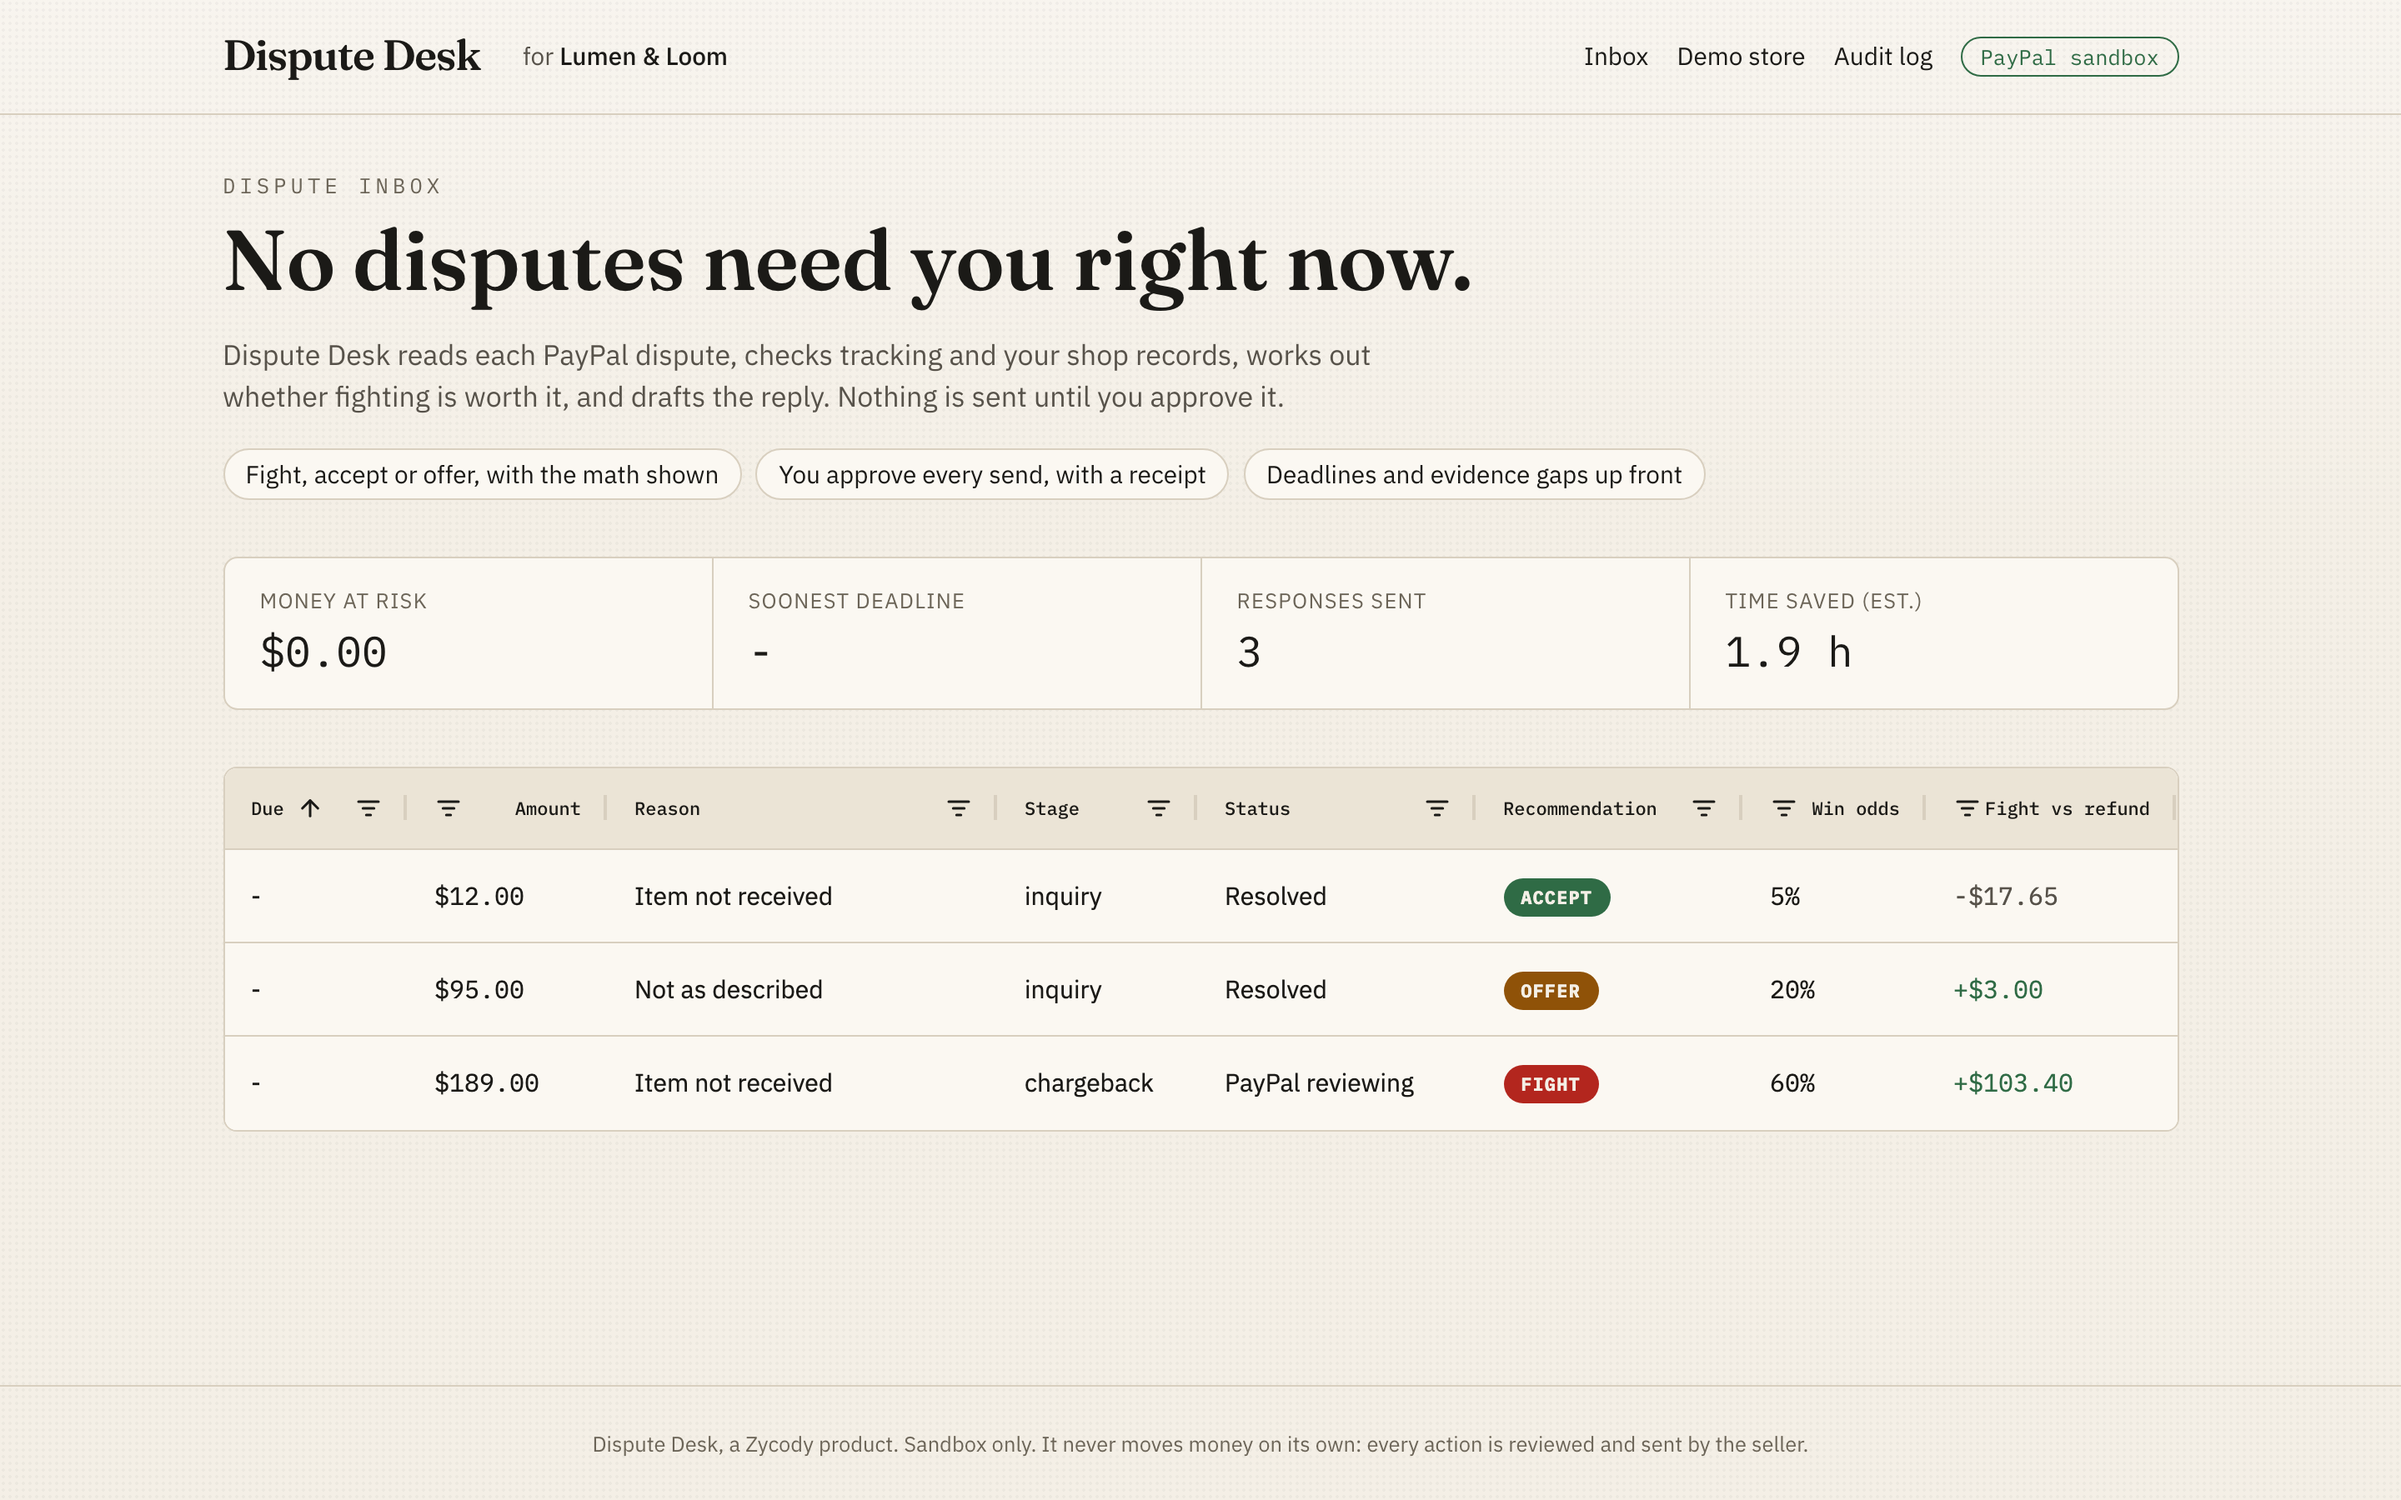
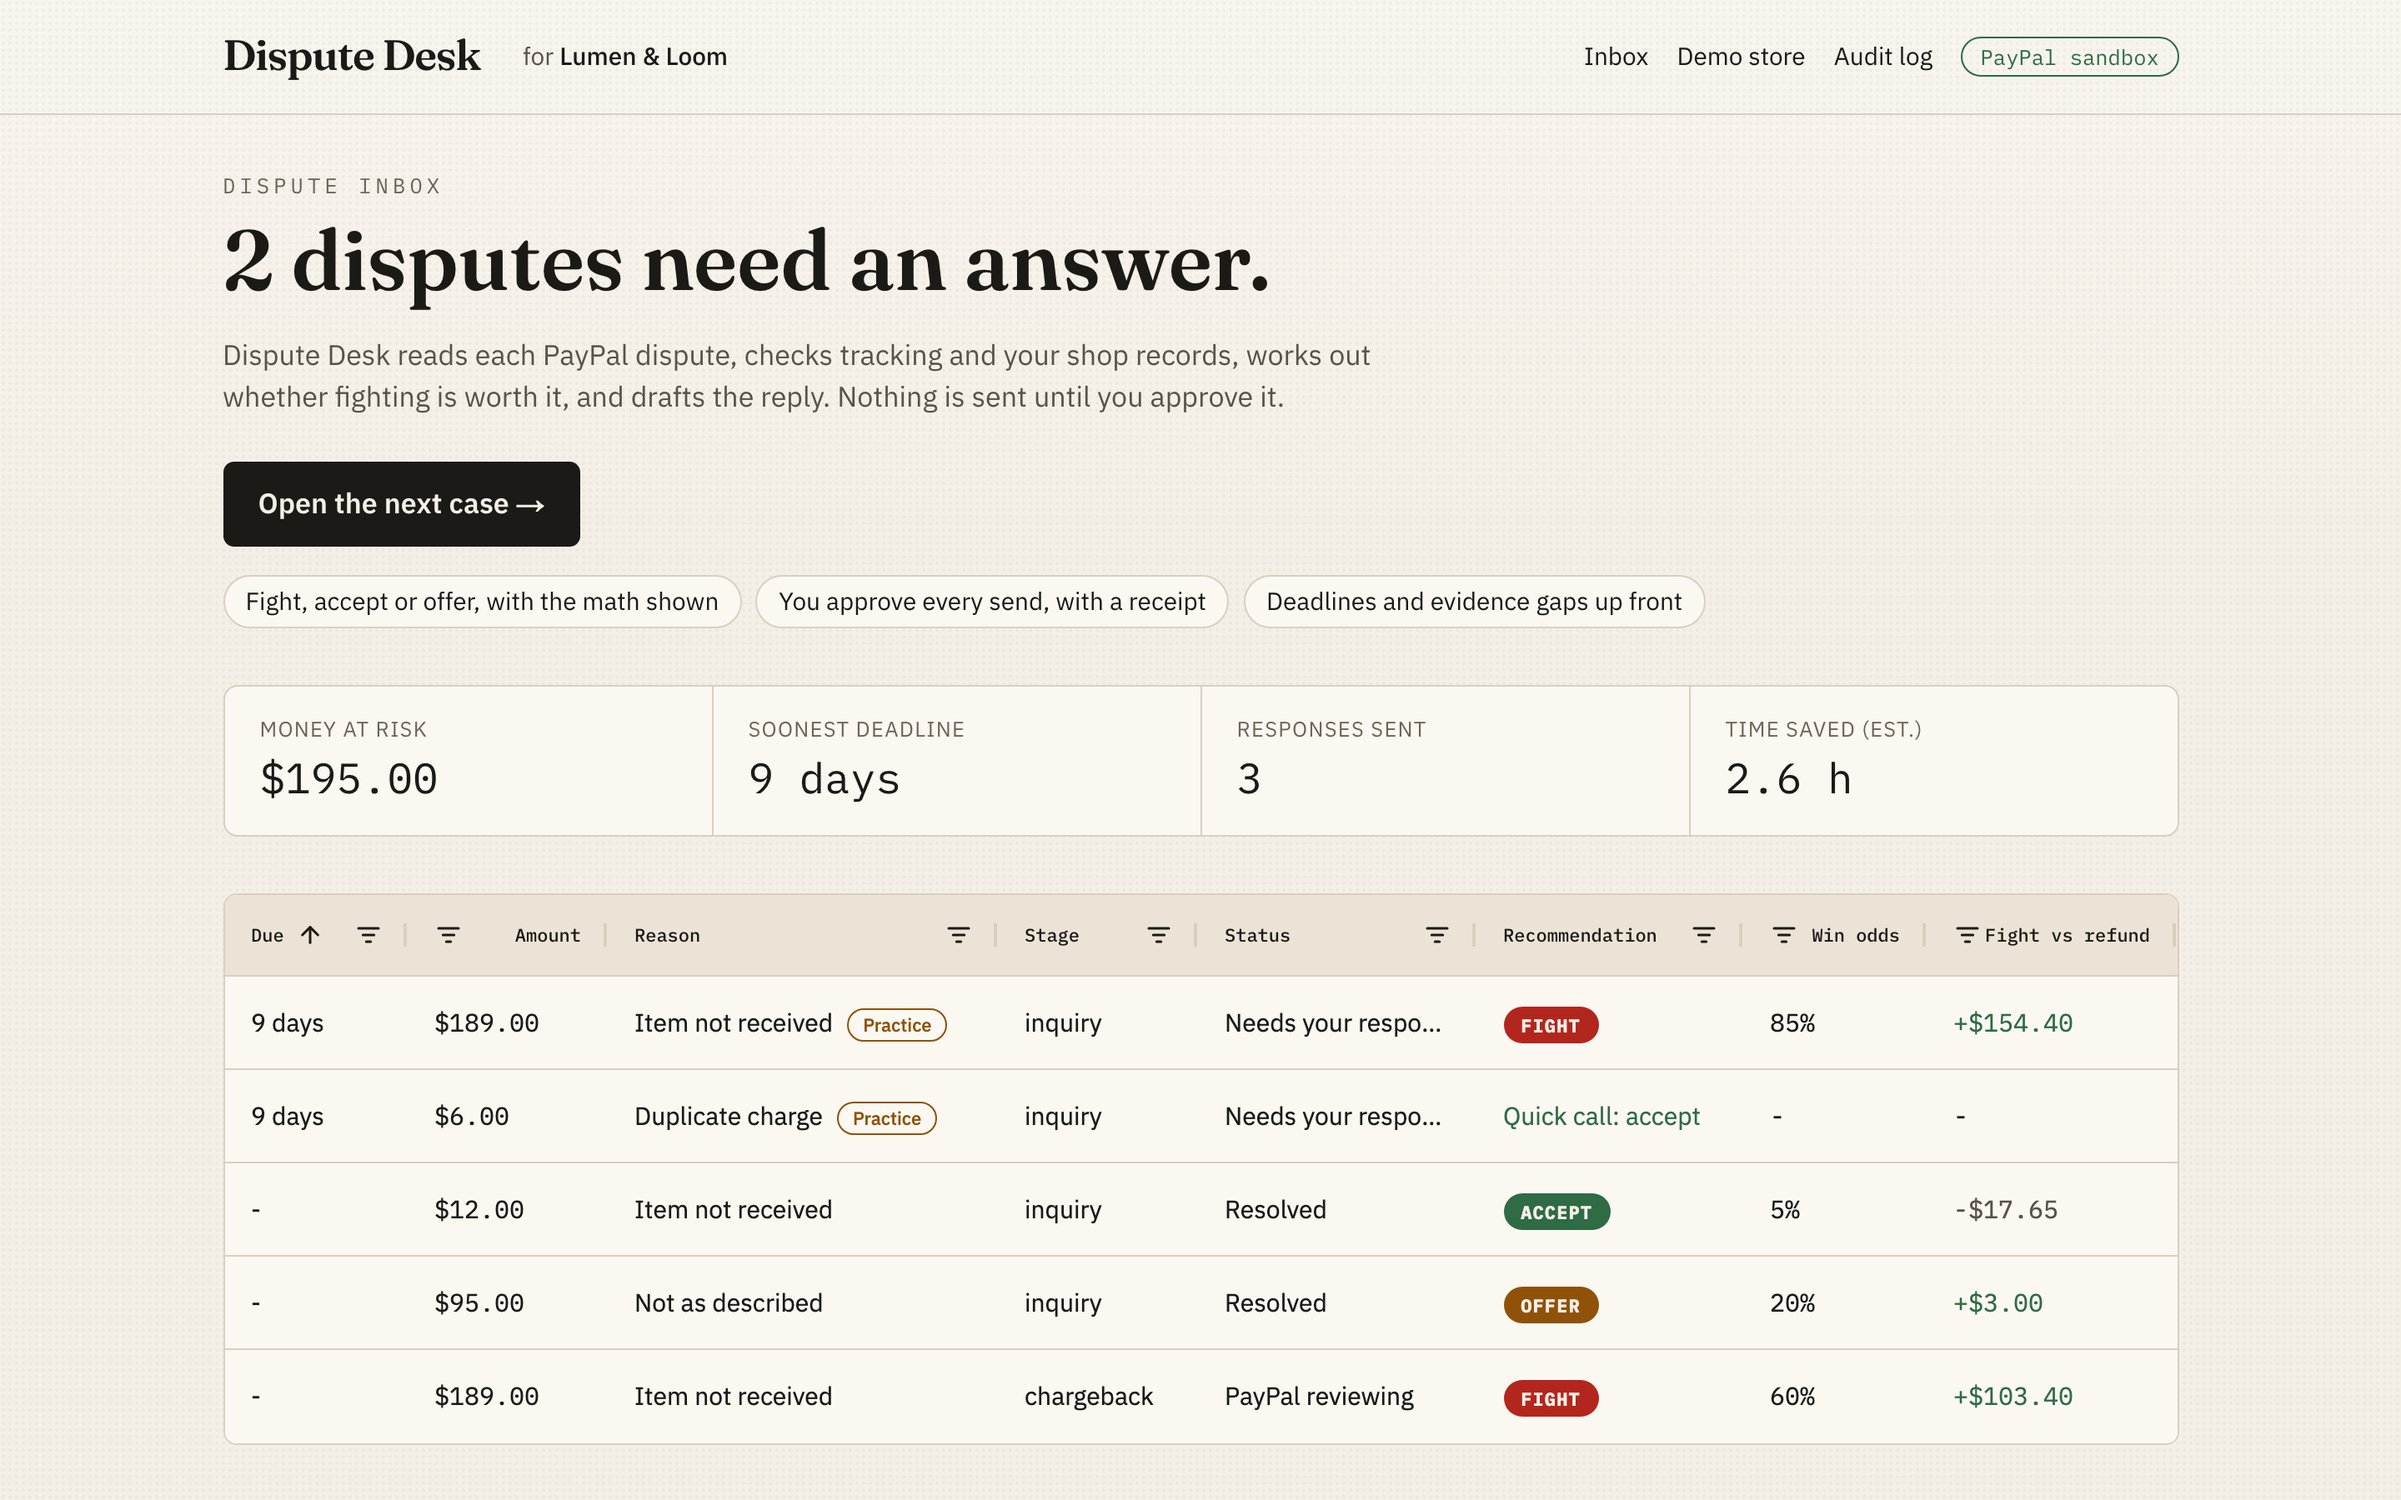
fix: phone case cards, clear first action, visible re-analyze, deadline sort

diff --git a/src/app/page.tsx b/src/app/page.tsx
@@ -1,3 +1,4 @@
+import Link from "next/link";
 import { DisputeQueue, type QueueRow } from "@/components/dispute-queue";
 import { quickCallFor } from "@/lib/case";
 import { needsSellerResponse } from "@/lib/dispute-state";
@@ -5,10 +6,13 @@ import { isLive } from "@/lib/env";
 import { daysUntil, fmtUsd, reasonLabel, statusLabel } from "@/lib/format";
 import { merchant } from "@/lib/merchant";
 import { getAnalyses, getAudit } from "@/lib/records";
+import { isUnlocked, passcodeRequired } from "@/lib/auth";
 import { isPractice, source } from "@/lib/source";
 import { PRODUCT } from "@/lib/brand";
 
 export const dynamic = "force-dynamic";
+
+const verdictBg = { FIGHT: "bg-fight", ACCEPT: "bg-accept", OFFER: "bg-offer" } as const;
 
 export default async function Inbox() {
   const src = source();
@@ -18,7 +22,7 @@ export default async function Inbox() {
   );
   const disputes = listed.items;
   const error = listed.error;
-  const [analyses, audit] = await Promise.all([getAnalyses(), getAudit()]);
+  const [analyses, audit, unlocked] = await Promise.all([getAnalyses(), getAudit(), isUnlocked()]);
 
   const rows: QueueRow[] = disputes.map((d) => {
     const a = analyses[d.dispute_id];
@@ -40,6 +44,7 @@ export default async function Inbox() {
   });
 
   const open = rows.filter((r) => r.needsResponse);
+  const next = [...open].sort((x, y) => (x.dueInDays ?? 99) - (y.dueInDays ?? 99))[0] ?? rows[0];
   const atRisk = open.reduce((s, r) => s + r.amount, 0);
   const analyzedCount = rows.filter((r) => r.verdict).length;
   const hoursSaved = (analyzedCount * (merchant.minutesWithoutDraft - merchant.minutesWithDraft)) / 60;
@@ -59,6 +64,18 @@ export default async function Inbox() {
           {PRODUCT} reads each PayPal dispute, checks tracking and your shop records, works out whether fighting is
           worth it, and drafts the reply. Nothing is sent until you approve it.
         </p>
+        <div className="mt-6 flex flex-wrap items-center gap-3">
+          {next && (
+            <Link href={`/disputes/${encodeURIComponent(next.id)}`} className="rounded-md bg-ink px-5 py-3 font-semibold text-paper hover:bg-ink-2">
+              Open the next case →
+            </Link>
+          )}
+          {passcodeRequired() && !unlocked && (
+            <Link href="/unlock" className="rounded-md border-2 border-ink px-5 py-2.5 font-semibold hover:bg-paper-2">
+              Unlock to analyze and send
+            </Link>
+          )}
+        </div>
         <ul className="mt-4 flex flex-wrap gap-2 text-sm" aria-label="How it works">
           <li className="rounded-full border border-rule bg-card px-3 py-1">Fight, accept or offer, with the math shown</li>
           <li className="rounded-full border border-rule bg-card px-3 py-1">You approve every send, with a receipt</li>
@@ -80,7 +97,40 @@ export default async function Inbox() {
       </section>
 
       <section aria-label="Dispute queue">
-        <DisputeQueue rows={rows} />
+        <div className="hidden sm:block">
+          <DisputeQueue rows={rows} />
+        </div>
+        {/* Phones get one card per case instead of a wide table. */}
+        <ul className="space-y-3 sm:hidden">
+          {[...rows]
+            .sort((x, y) => Number(y.needsResponse) - Number(x.needsResponse) || (x.dueInDays ?? 99) - (y.dueInDays ?? 99))
+            .map((r) => (
+              <li key={r.id}>
+                <Link href={`/disputes/${encodeURIComponent(r.id)}`} className="block rounded-lg border border-rule bg-card p-4 active:bg-paper-2">
+                  <div className="flex items-start justify-between gap-3">
+                    <p className="font-medium">
+                      {r.reason}
+                      {r.practice && <span className="ml-2 rounded-full border border-offer px-2 py-0.5 text-[11px] text-offer">Practice</span>}
+                    </p>
+                    <p className="font-mono">{fmtUsd(r.amount, r.currency)}</p>
+                  </div>
+                  <div className="mt-2 flex flex-wrap items-center gap-2 text-sm text-ink-2">
+                    {r.verdict ? (
+                      <span className={`rounded-full px-2.5 py-0.5 font-mono text-[11px] font-bold text-paper ${verdictBg[r.verdict]}`}>{r.verdict}</span>
+                    ) : r.quickCall && r.needsResponse ? (
+                      <span className="text-accept">Quick call: accept</span>
+                    ) : (
+                      <span className="text-ink-3">Not analyzed</span>
+                    )}
+                    <span>{r.status}</span>
+                    {r.needsResponse && r.dueInDays !== null && (
+                      <span className={r.dueInDays <= 3 ? "font-semibold text-fight" : ""}>· {r.dueInDays} days left</span>
+                    )}
+                  </div>
+                </Link>
+              </li>
+            ))}
+        </ul>
         {!isLive() && (
           <p className="mt-3 text-sm text-ink-3">
             Showing bundled demo disputes. Add PayPal sandbox credentials to work with real sandbox disputes.

diff --git a/src/components/analyze-button.tsx b/src/components/analyze-button.tsx
@@ -12,6 +12,7 @@ export function AnalyzeButton({ disputeId, unlocked, again }: { disputeId: strin
   const [steps, setSteps] = useState<Step[]>([]);
   const [running, setRunning] = useState(false);
   const [error, setError] = useState<string | null>(null);
+  const [finished, setFinished] = useState(false);
 
   if (!unlocked) {
     return (
@@ -23,6 +24,7 @@ export function AnalyzeButton({ disputeId, unlocked, again }: { disputeId: strin
 
   async function run() {
     setRunning(true);
+    setFinished(false);
     setError(null);
     setSteps([]);
     try {
@@ -44,7 +46,10 @@ export function AnalyzeButton({ disputeId, unlocked, again }: { disputeId: strin
           const ev = JSON.parse(line);
           if (ev.type === "tool") setSteps((s) => [...s, { name: ev.name, label: ev.label }]);
           if (ev.type === "error") throw new Error(ev.message);
-          if (ev.type === "done") router.refresh();
+          if (ev.type === "done") {
+            setFinished(true);
+            router.refresh();
+          }
         }
       }
     } catch (e) {
@@ -52,6 +57,14 @@ export function AnalyzeButton({ disputeId, unlocked, again }: { disputeId: strin
     } finally {
       setRunning(false);
     }
+  }
+
+  if (again && finished && !running) {
+    return (
+      <span role="status" className="font-medium text-accept">
+        Fresh analysis ✓ just now
+      </span>
+    );
   }
 
   if (again && !running && steps.length === 0) {

diff --git a/src/app/disputes/[id]/page.tsx b/src/app/disputes/[id]/page.tsx
@@ -370,7 +370,8 @@ export default async function DisputePage({ params }: PageProps<"/disputes/[id]"
           {a && (
             <div className="flex flex-wrap items-center justify-between gap-2 text-xs text-ink-3">
               <span>
-                Analyzed {fmtDate(analysis!.createdAt)} by {analysis!.model} · {analysis!.toolCalls.length} tool calls
+                Analyzed {new Date(analysis!.createdAt).toLocaleString("en-US", { dateStyle: "medium", timeStyle: "short" })} by{" "}
+                {analysis!.model} · {analysis!.toolCalls.length} tool calls
               </span>
               {actionable && <AnalyzeButton disputeId={id} unlocked={unlocked} again />}
             </div>

diff --git a/src/components/dispute-queue.tsx b/src/components/dispute-queue.tsx
@@ -61,6 +61,8 @@ export function DisputeQueue({ rows }: { rows: QueueRow[] }) {
         headerName: "Due",
         width: 110,
         sort: "asc",
+        // Cases with no deadline (resolved or under review) sort after the ones waiting on you.
+        comparator: (a: number | null, b: number | null) => (a ?? Number.MAX_SAFE_INTEGER) - (b ?? Number.MAX_SAFE_INTEGER),
         valueFormatter: (p) => (p.value === null ? "-" : p.value <= 0 ? "Today" : `${p.value} days`),
         cellClass: (p) => (p.data?.needsResponse && (p.value ?? 99) <= 3 ? "text-fight font-semibold" : ""),
       },
